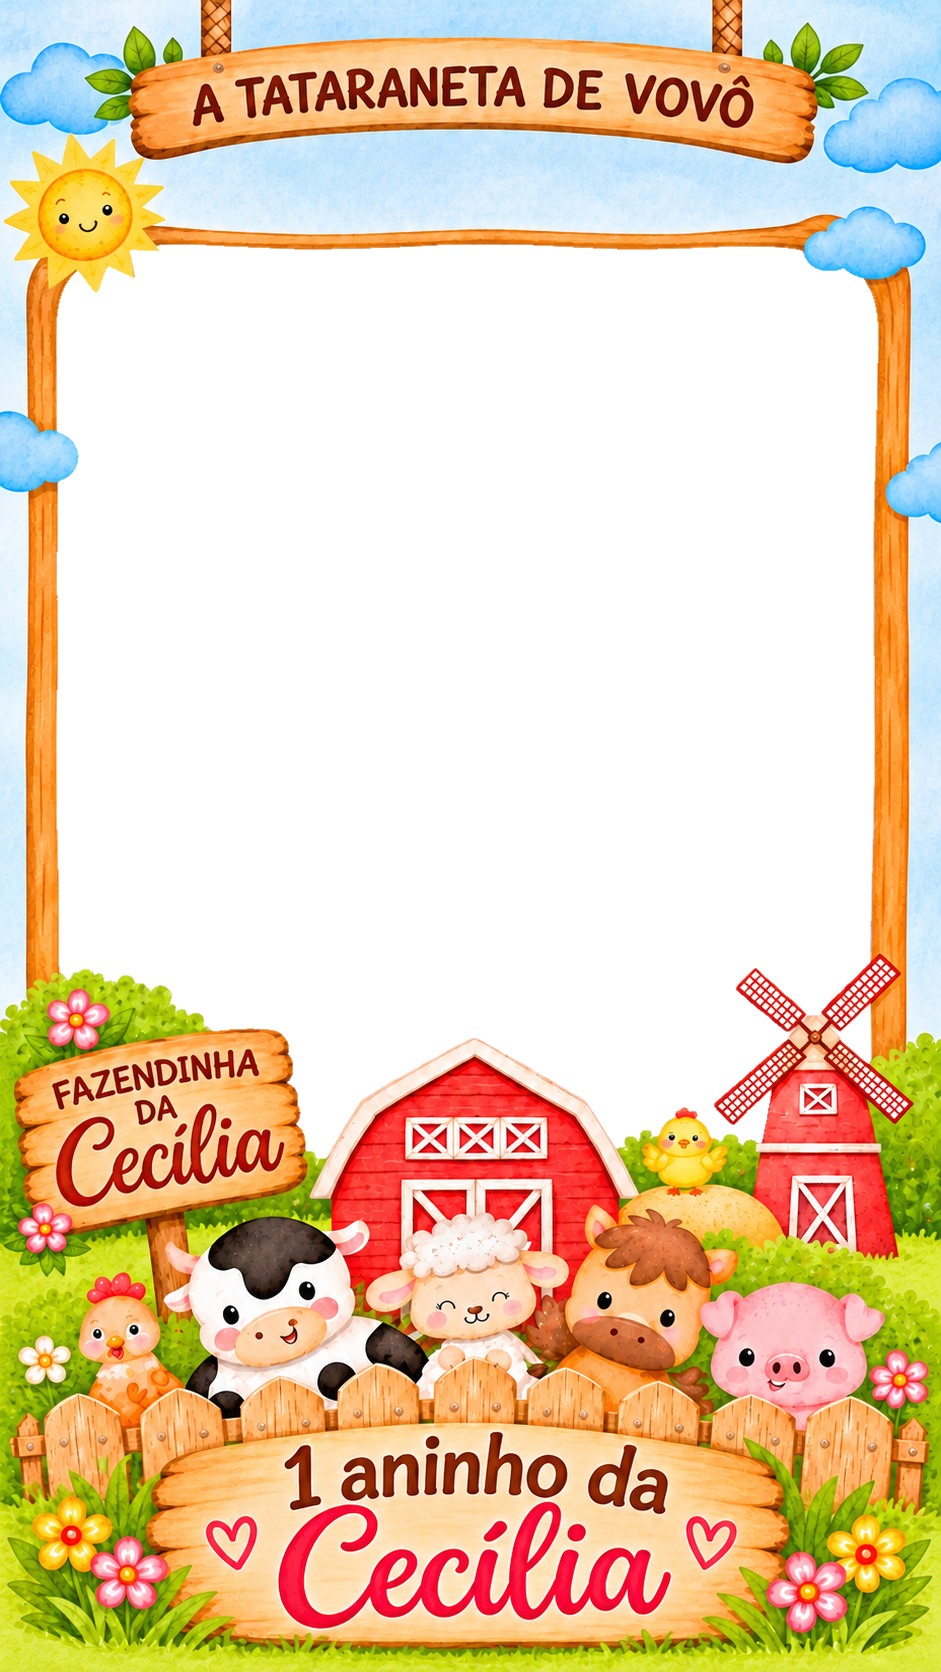
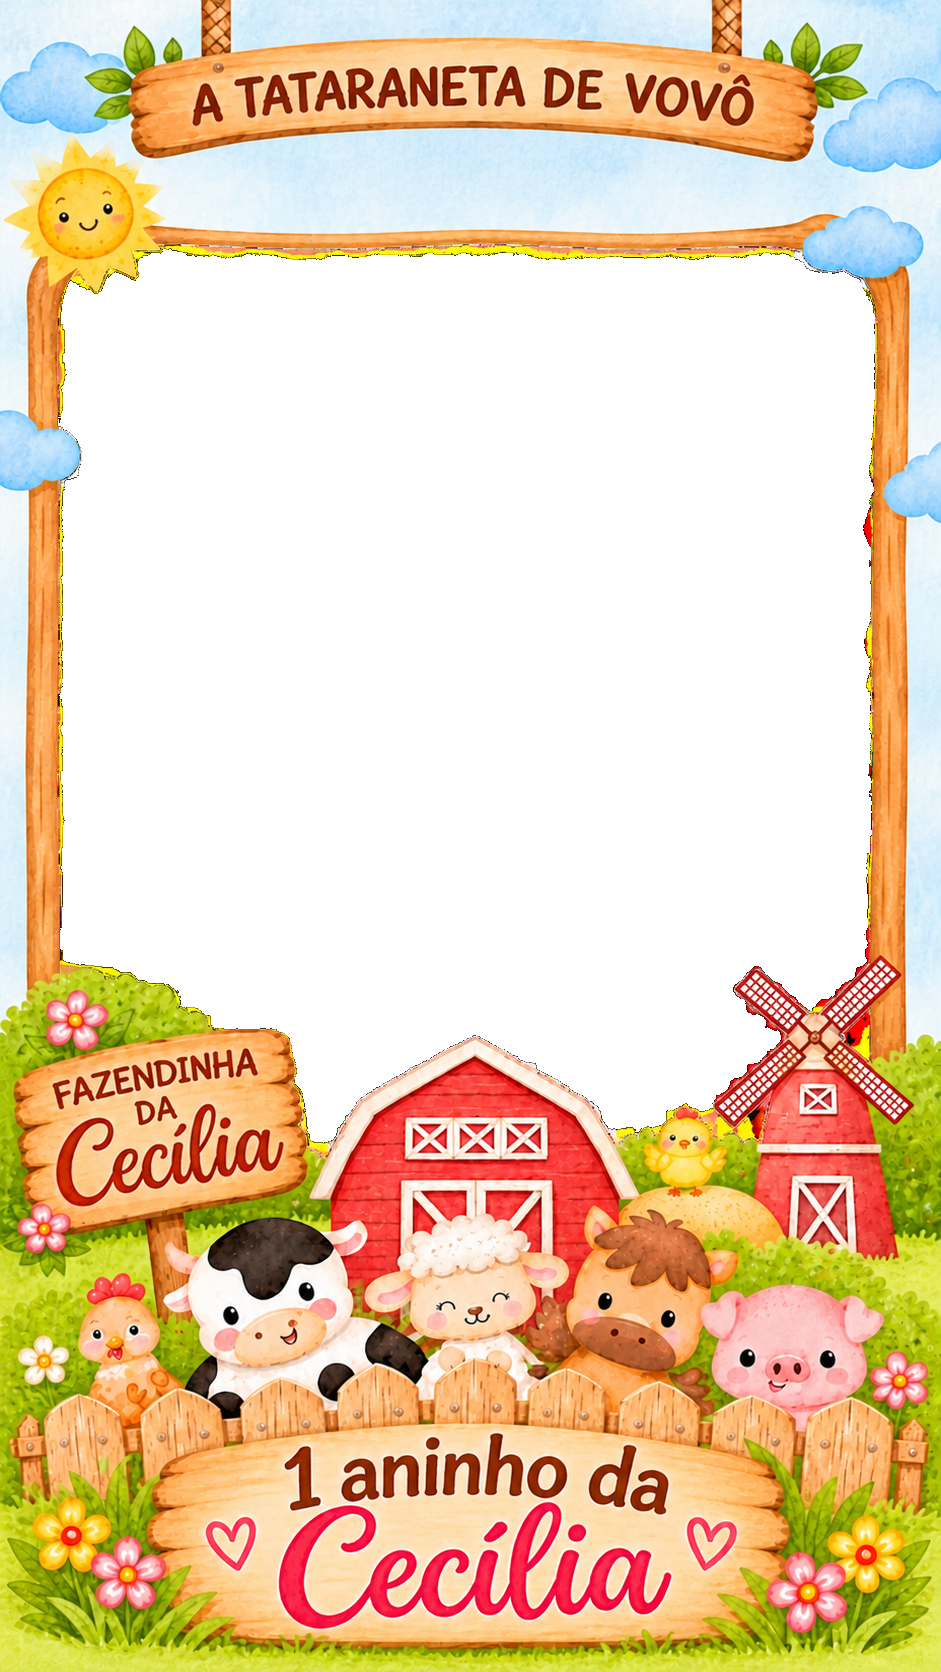
Add files via upload

Changed region(s): [[0.0, 0.0, 1.0, 1.0]]

diff --git a/styles.css b/styles.css
@@ -1,6 +1,6 @@
 @import url('https://fonts.googleapis.com/css2?family=Baloo+2:wght@400;500;600;700;800&family=Nunito:wght@400;600;700;800;900&display=swap');
 :root{--green:#477b3b;--green-dark:#315d2a;--cream:#fff8e9;--orange:#e58a35;--brown:#6f351e;--pink:#f18b9e;--shadow:0 12px 34px rgba(76,65,36,.12)}
-*{box-sizing:border-box}body{margin:0;min-height:100vh;background:radial-gradient(circle at 12% 10%,#e2f3ff 0,transparent 25%),linear-gradient(180deg,#fffdf5,#f4f8e8);color:#49321f;font-family:'Nunito',sans-serif}.app-shell{width:min(100%,760px);min-height:100vh;margin:auto;padding:18px 20px 26px;display:flex;flex-direction:column}.topbar{display:flex;align-items:center;gap:12px;padding:8px 4px 18px;border-bottom:1px solid rgba(94,117,61,.15)}.brand-mark{width:48px;height:48px;border-radius:16px;background:#fbe6a5;display:grid;place-items:center;font-size:28px;box-shadow:var(--shadow)}h1,h2,p{margin:0}.topbar h1{font:800 22px 'Baloo 2',sans-serif;color:var(--green-dark);line-height:1.1}.eyebrow{font-size:10px;letter-spacing:2px;font-weight:900;color:#a76a2b}.age-tag{margin-left:auto;background:#fce6a9;color:#77451d;padding:7px 12px;border-radius:999px;font-size:12px;font-weight:900}.screen{padding:22px 0;flex:1}.home-screen{display:grid;grid-template-columns:minmax(0,1fr) minmax(0,1fr);align-items:center;gap:22px}.hero-art{border-radius:26px;overflow:hidden;box-shadow:var(--shadow);background:#e7f5ff}.hero-art img{display:block;width:100%;height:auto}.welcome-copy h2,.screen-heading h2{font:800 clamp(27px,5vw,38px)/1.04 'Baloo 2',sans-serif;color:var(--green-dark);margin:7px 0 12px}.welcome-copy>p:not(.eyebrow){font-size:15px;line-height:1.55;color:#765b43;margin-bottom:22px}.primary-btn,.secondary-btn,.text-btn,.back-btn{border:0;cursor:pointer;font:800 15px 'Nunito',sans-serif}.primary-btn{display:block;width:100%;border-radius:16px;padding:15px 18px;background:linear-gradient(180deg,#5c9349,#3e7434);color:white;box-shadow:0 7px 0 #2f5c29,0 12px 20px rgba(49,93,42,.18);transition:transform .15s}.primary-btn:active{transform:translateY(3px);box-shadow:0 4px 0 #2f5c29}.text-btn{display:block;background:transparent;color:var(--green-dark);padding:14px 8px;width:100%}.home-footer,.app-footer{text-align:center;color:#9a7a56;font-size:12px;font-weight:800;padding:12px}.screen-heading{display:flex;align-items:center;gap:12px;margin-bottom:18px}.back-btn{width:42px;height:42px;border-radius:14px;background:#f8e7bd;color:#704321;font-size:25px}.screen-heading h2{font-size:28px;margin:2px 0 0}.camera-stage{position:relative;width:min(100%,440px);margin:0 auto;aspect-ratio:928/1660;background:#253127;border-radius:22px;overflow:hidden;box-shadow:var(--shadow)}#video{position:absolute;inset:0;width:100%;height:100%;object-fit:cover;transform:scaleX(-1)}.frame-overlay{position:absolute;inset:0;width:100%;height:100%;object-fit:fill;pointer-events:none}.camera-placeholder{position:absolute;inset:35% 10% 35%;display:flex;flex-direction:column;align-items:center;justify-content:center;gap:8px;color:#fff;text-align:center;text-shadow:0 2px 8px #000}.camera-placeholder span{font-size:38px}.camera-placeholder small{font-size:12px}.countdown{position:absolute;inset:0;display:grid;place-items:center;color:white;font:900 100px 'Baloo 2';text-shadow:0 4px 18px #000;z-index:4;background:#0002}.message{text-align:center;font-size:13px;color:#866b50;padding:12px}.camera-controls{display:flex;align-items:center;justify-content:space-between;gap:10px;max-width:440px;margin:6px auto}.secondary-btn{background:#fff0cf;color:#71451f;border-radius:14px;padding:12px 13px;font-size:12px;box-shadow:0 3px 0 #e6d1a8}.shutter-btn{width:72px;height:72px;flex:none;border-radius:50%;background:#fff;border:5px solid #f1b95a;display:grid;place-items:center;box-shadow:0 5px 0 #df9d37}.shutter-btn span{width:48px;height:48px;border-radius:50%;background:#ed8755}.preview-wrap{width:min(100%,420px);margin:auto;border-radius:20px;overflow:hidden;box-shadow:var(--shadow);background:#e6f4ff}.preview-wrap img{display:block;width:100%;height:auto}.preview-actions{display:grid;grid-template-columns:1fr 1fr;gap:12px;max-width:420px;margin:18px auto 0}.preview-actions .text-btn{grid-column:1/-1}.gallery-intro{text-align:center;color:#8b7257;font-size:13px;margin:-4px 0 18px}.gallery-grid{display:grid;grid-template-columns:repeat(2,minmax(0,1fr));gap:12px}.gallery-card{border-radius:16px;overflow:hidden;background:white;box-shadow:var(--shadow)}.gallery-card img{width:100%;display:block}.gallery-card button{border:0;background:#fff0cf;color:#71451f;width:100%;padding:9px;font-weight:800}.empty-gallery{display:flex;min-height:210px;flex-direction:column;align-items:center;justify-content:center;text-align:center;color:#866b50;gap:8px}.empty-gallery span{font-size:42px}.empty-gallery p{font-size:13px}.gallery-screen>.primary-btn{margin-top:18px}.app-footer{margin-top:auto} [hidden]{display:none!important}
+*{box-sizing:border-box}body{margin:0;min-height:100vh;background:radial-gradient(circle at 12% 10%,#e2f3ff 0,transparent 25%),linear-gradient(180deg,#fffdf5,#f4f8e8);color:#49321f;font-family:'Nunito',sans-serif}.app-shell{width:min(100%,760px);min-height:100vh;margin:auto;padding:18px 20px 26px;display:flex;flex-direction:column}.topbar{display:flex;align-items:center;gap:12px;padding:8px 4px 18px;border-bottom:1px solid rgba(94,117,61,.15)}.brand-mark{width:48px;height:48px;border-radius:16px;background:#fbe6a5;display:grid;place-items:center;font-size:28px;box-shadow:var(--shadow)}h1,h2,p{margin:0}.topbar h1{font:800 22px 'Baloo 2',sans-serif;color:var(--green-dark);line-height:1.1}.eyebrow{font-size:10px;letter-spacing:2px;font-weight:900;color:#a76a2b}.age-tag{margin-left:auto;background:#fce6a9;color:#77451d;padding:7px 12px;border-radius:999px;font-size:12px;font-weight:900}.screen{padding:22px 0;flex:1}.home-screen{display:grid;grid-template-columns:minmax(0,1fr) minmax(0,1fr);align-items:center;gap:22px}.hero-art{border-radius:26px;overflow:hidden;box-shadow:var(--shadow);background:#e7f5ff}.hero-art img{display:block;width:100%;height:auto}.welcome-copy h2,.screen-heading h2{font:800 clamp(27px,5vw,38px)/1.04 'Baloo 2',sans-serif;color:var(--green-dark);margin:7px 0 12px}.welcome-copy>p:not(.eyebrow){font-size:15px;line-height:1.55;color:#765b43;margin-bottom:22px}.primary-btn,.secondary-btn,.text-btn,.back-btn{border:0;cursor:pointer;font:800 15px 'Nunito',sans-serif}.primary-btn{display:block;width:100%;border-radius:16px;padding:15px 18px;background:linear-gradient(180deg,#5c9349,#3e7434);color:white;box-shadow:0 7px 0 #2f5c29,0 12px 20px rgba(49,93,42,.18);transition:transform .15s}.primary-btn:active{transform:translateY(3px);box-shadow:0 4px 0 #2f5c29}.text-btn{display:block;background:transparent;color:var(--green-dark);padding:14px 8px;width:100%}.home-footer,.app-footer{text-align:center;color:#9a7a56;font-size:12px;font-weight:800;padding:12px}.screen-heading{display:flex;align-items:center;gap:12px;margin-bottom:18px}.back-btn{width:42px;height:42px;border-radius:14px;background:#f8e7bd;color:#704321;font-size:25px}.screen-heading h2{font-size:28px;margin:2px 0 0}.camera-stage{position:relative;width:min(100%,440px);margin:0 auto;aspect-ratio:941/1672;background:#253127;border-radius:22px;overflow:hidden;box-shadow:var(--shadow)}#video{position:absolute;inset:0;width:100%;height:100%;object-fit:cover;transform:scaleX(-1)}.frame-overlay{position:absolute;inset:0;width:100%;height:100%;object-fit:fill;pointer-events:none}.camera-placeholder{position:absolute;inset:35% 10% 35%;display:flex;flex-direction:column;align-items:center;justify-content:center;gap:8px;color:#fff;text-align:center;text-shadow:0 2px 8px #000}.camera-placeholder span{font-size:38px}.camera-placeholder small{font-size:12px}.countdown{position:absolute;inset:0;display:grid;place-items:center;color:white;font:900 100px 'Baloo 2';text-shadow:0 4px 18px #000;z-index:4;background:#0002}.message{text-align:center;font-size:13px;color:#866b50;padding:12px}.camera-controls{display:flex;align-items:center;justify-content:space-between;gap:10px;max-width:440px;margin:6px auto}.secondary-btn{background:#fff0cf;color:#71451f;border-radius:14px;padding:12px 13px;font-size:12px;box-shadow:0 3px 0 #e6d1a8}.shutter-btn{width:72px;height:72px;flex:none;border-radius:50%;background:#fff;border:5px solid #f1b95a;display:grid;place-items:center;box-shadow:0 5px 0 #df9d37}.shutter-btn span{width:48px;height:48px;border-radius:50%;background:#ed8755}.preview-wrap{width:min(100%,420px);margin:auto;border-radius:20px;overflow:hidden;box-shadow:var(--shadow);background:#e6f4ff}.preview-wrap img{display:block;width:100%;height:auto}.preview-actions{display:grid;grid-template-columns:1fr 1fr;gap:12px;max-width:420px;margin:18px auto 0}.preview-actions .text-btn{grid-column:1/-1}.gallery-intro{text-align:center;color:#8b7257;font-size:13px;margin:-4px 0 18px}.gallery-grid{display:grid;grid-template-columns:repeat(2,minmax(0,1fr));gap:12px}.gallery-card{border-radius:16px;overflow:hidden;background:white;box-shadow:var(--shadow)}.gallery-card img{width:100%;display:block}.gallery-card button{border:0;background:#fff0cf;color:#71451f;width:100%;padding:9px;font-weight:800}.empty-gallery{display:flex;min-height:210px;flex-direction:column;align-items:center;justify-content:center;text-align:center;color:#866b50;gap:8px}.empty-gallery span{font-size:42px}.empty-gallery p{font-size:13px}.gallery-screen>.primary-btn{margin-top:18px}.app-footer{margin-top:auto} [hidden]{display:none!important}
 @media(max-width:600px){.app-shell{padding:12px 14px 18px}.home-screen{grid-template-columns:1fr;gap:18px}.hero-art{width:min(72%,260px);margin:0 auto;max-height:390px}.hero-art img{max-height:390px;object-fit:cover;object-position:top}.welcome-copy{text-align:center}.welcome-copy>p:not(.eyebrow){max-width:340px;margin:0 auto 18px}.welcome-copy .primary-btn{max-width:420px;margin:auto}.camera-stage{width:min(100%,390px)}.camera-controls{gap:6px}.secondary-btn{padding:11px 9px}.shutter-btn{width:66px;height:66px}.shutter-btn span{width:43px;height:43px}}
 .gallery-screen .message{margin:-12px 0 12px}
 button:disabled{opacity:.65;cursor:not-allowed}

diff --git a/sw.js b/sw.js
@@ -1,4 +1,4 @@
-const CACHE = 'cecilia-cabine-v2';
+const CACHE = 'cecilia-cabine-v3';
 const FILES = [
   './', './index.html', './styles.css', './app.js', './firebase-config.js',
   './manifest.webmanifest', './assets/moldura-fazendinha-cecilia.png', './assets/icon.svg'
@@ -15,5 +15,16 @@ self.addEventListener('fetch', (event) => {
   if (event.request.method !== 'GET') return;
   const url = new URL(event.request.url);
   if (url.origin !== self.location.origin) return; // Firebase SDK e APIs sempre pela rede.
-  event.respondWith(caches.match(event.request).then((cached) => cached || fetch(event.request)));
+  event.respondWith((async () => {
+    const cache = await caches.open(CACHE);
+    try {
+      const response = await fetch(event.request, { cache: 'no-store' });
+      if (response && response.ok) await cache.put(event.request, response.clone());
+      return response;
+    } catch (error) {
+      const cached = await cache.match(event.request);
+      if (cached) return cached;
+      throw error;
+    }
+  })());
 });

diff --git a/app.js b/app.js
@@ -120,11 +120,14 @@ function stopCamera() {
   video.srcObject = null;
 }
 function makeComposite() {
-  const width = 928, height = 1660;
+  // Mantém a composição exatamente na resolução nativa da moldura.
+  const width = 941, height = 1672;
   const canvas = document.createElement('canvas');
   canvas.width = width; canvas.height = height;
   const ctx = canvas.getContext('2d');
-  const x = 60, y = 248, photoWidth = 800, photoHeight = 705;
+  // A fotografia cobre toda a abertura transparente; a própria moldura
+  // esconde automaticamente a imagem atrás da madeira, dos animais e dos enfeites.
+  const x = 55, y = 240, photoWidth = 825, photoHeight = 910;
   const vw = video.videoWidth || 720, vh = video.videoHeight || 1280;
   const targetRatio = photoWidth / photoHeight, sourceRatio = vw / vh;
   let sx = 0, sy = 0, sw = vw, sh = vh;
